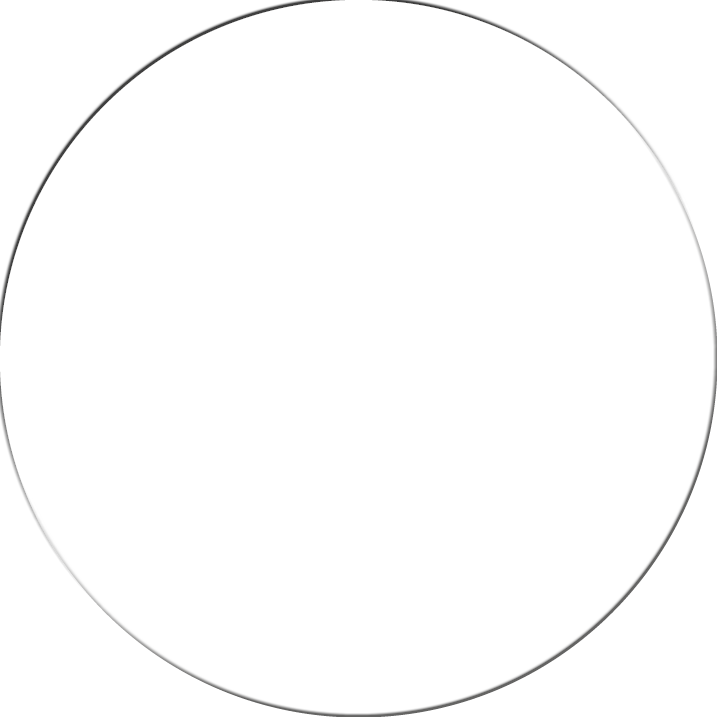
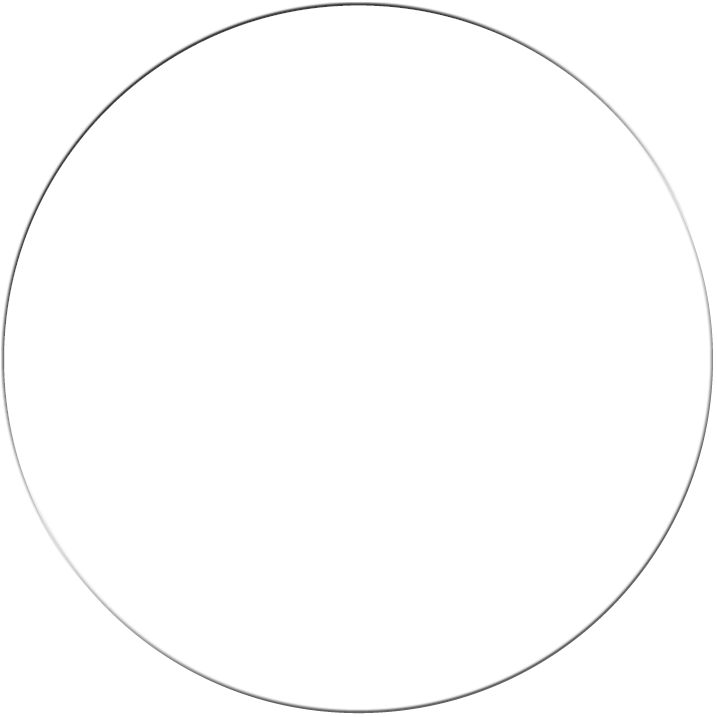
Changement design

diff --git a/IHM_AJOUT/CLIENT.xaml b/IHM_AJOUT/CLIENT.xaml
@@ -59,8 +59,8 @@
             <Button x:Name="Button_Close" Content="X" HorizontalAlignment="Right" VerticalAlignment="Top" Height="60" Width="60" Background="Red" FontSize="30" Click="Button_Close_Click"/>
 
 
-            <StackPanel HorizontalAlignment="Left" VerticalAlignment="Bottom" Margin="70,0,0,20">
-                <StackPanel Margin="40,0,0,0">
+            <StackPanel HorizontalAlignment="Left" VerticalAlignment="Bottom" Margin="70,0,0,0">
+                <StackPanel Margin="40,0,0,50">
                     <Grid Margin="20" Width="300">
                         <Image Source="/arbre.png" Stretch="Fill" Height="250" Width="300"/>
 